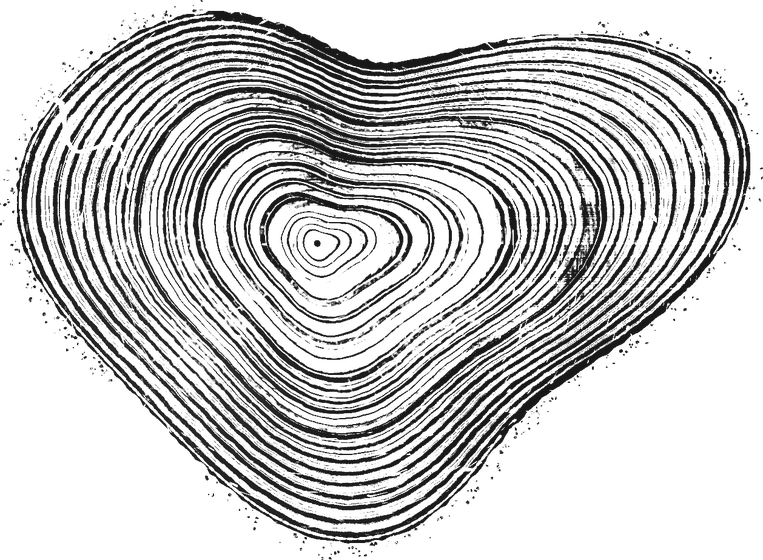
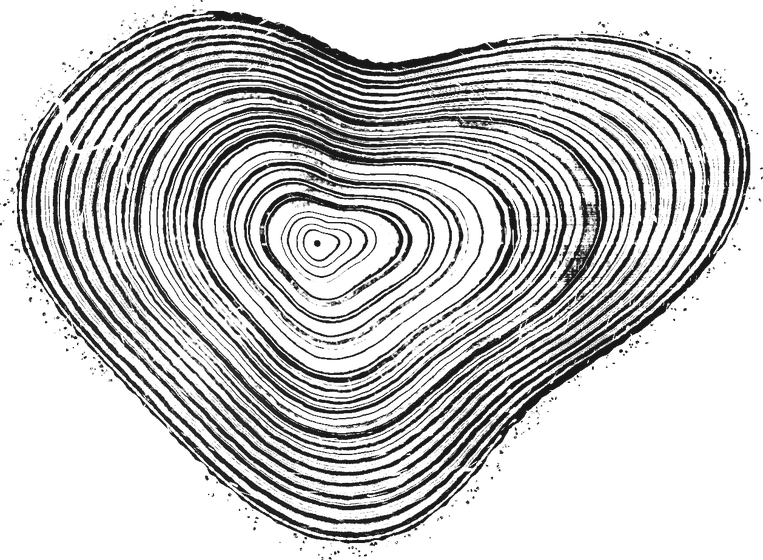
Calm the grain and fir's fibre: no more corrugated look up close
Claude-Session: https://claude.ai/code/session_01WhGxUDQ2nhT1B8pKnZrdq5

diff --git a/src/rings/press.ts b/src/rings/press.ts
@@ -1880,7 +1880,7 @@ const ANATOMY: Partial<Record<Kind, Anatomy>> = {
   // Olive: dense, close and irregular, its figure a dark mottle wandering through the years.
   olive: { early: 0.6, late: 0.96, share: 0.22, edge: 1.0, rays: 0.6, rayW: 0.3, pores: 0.05, poreR: 0.3, poreEarly: 0, fibre: 0.35, mottle: 0.45 },
   // Douglas fir: a pale, soft earlywood, then all at once a dark latewood: the boldest year of them all.
-  fir: { early: 0.3, late: 1.15, share: 0.5, edge: 1.12, rays: 0, rayW: 0, pores: 0, poreR: 0, poreEarly: 0, fibre: 0.7, mottle: 0.15, sharp: 1.8 },
+  fir: { early: 0.24, late: 1.15, share: 0.5, edge: 1.12, rays: 0, rayW: 0, pores: 0, poreR: 0, poreEarly: 0, fibre: 0.3, mottle: 0, sharp: 1.8 },
   // Juniper: fine and close, its latewood thin and its years irregular, a soft figure through them.
   juniper: { early: 0.3, late: 1.0, share: 0.26, edge: 1.04, rays: 0, rayW: 0, pores: 0, poreR: 0, poreEarly: 0, fibre: 0.45, mottle: 0.25 },
 };
@@ -1998,7 +1998,7 @@ function printYears(v: View, oak: Years | null): void {
     if (fib && A.fibre) ink *= 1 + A.fibre * 0.45 * (tile(fib, a * rho * 0.5, rho * 0.5) - 0.5) * 2;
     // (And the wood's own fine grain, finer than the scan holds: long thin streaks along the year, in the wood's
     // place, too fine to see whole and showing as it's looked into, so looking closer finds more, never a blur.)
-    ink *= 1 + 0.5 * (vnoise(rho * 1.6 + i * 5.3, a * rho * 0.09) - 0.5) * 2 * (0.5 + 0.5 * vnoise(rho * 0.25, a * rho * 0.03 + 9.1));
+    ink *= 1 + 0.2 * (vnoise(rho * 1.6 + i * 5.3, a * rho * 0.09) - 0.5) * 2 * (0.5 + 0.5 * vnoise(rho * 0.25, a * rho * 0.03 + 9.1));
     if (A.mottle) ink *= 1 + A.mottle * (vnoise(dx / (22 * U) + 3.1, dy / (22 * U) + 7.7) - 0.5) * 2;
     // Pores: open vessels, paper in the print, scattered (or gathered at the year's start), in the wood's place.
     if (A.pores) {

diff --git a/RINGS-HISTORY.md b/RINGS-HISTORY.md
@@ -184,3 +184,5 @@ Still to come (`trees.ts`): a redwood with fires, a bristlecone with drought, a 
 **Looked into, still** (since October 17). Two things moved a slice looked into after the fingers lifted: the sharper print, pressed for the view, replaced the enlarged one all at once, its rays and grain (too fine to see before) appearing in a frame; and the breath, a sixtieth's swell, enlarged three times over into a pumping of the lines. Now the picture replaced fades out over the new one (`fading`, some half a second), and the slice doesn't breathe while it's looked into.
 
 **Zoom that holds, a slice its own size, a bolder fir** (since October 17). A ring closed, the slice is shown where the loop was drawn and draws back to its own size over a minute and a half; a pinch then froze it there for good (so a slice could stay the size of a wide loop, filling the sheet), and the year went on growing under the fingers, the rings sliding out after the zoom. Now a pinch finishes the drawing back at once and makes the look that much closer instead (`holdForLook`), so nothing moves under the fingers or after them, and zooming out finds the slice its own size; a year still growing is grown. A wide loop's year is shown at most three-tenths larger at first. And Douglas fir's years were near bare paper with a thin line; now each is a broad dark latewood building from a speckled earlywood, as a fir prints.
+
+**Less texture** (since October 17). Looked into, the drawn woods read as corrugated card: the wood's fine grain along each year, and fir's fibre on top of it, too strong. Both laid more lightly (the grain at two-fifths, fir's fibre at under half), so a year looked into is smooth ink with a soft edge where it begins.
